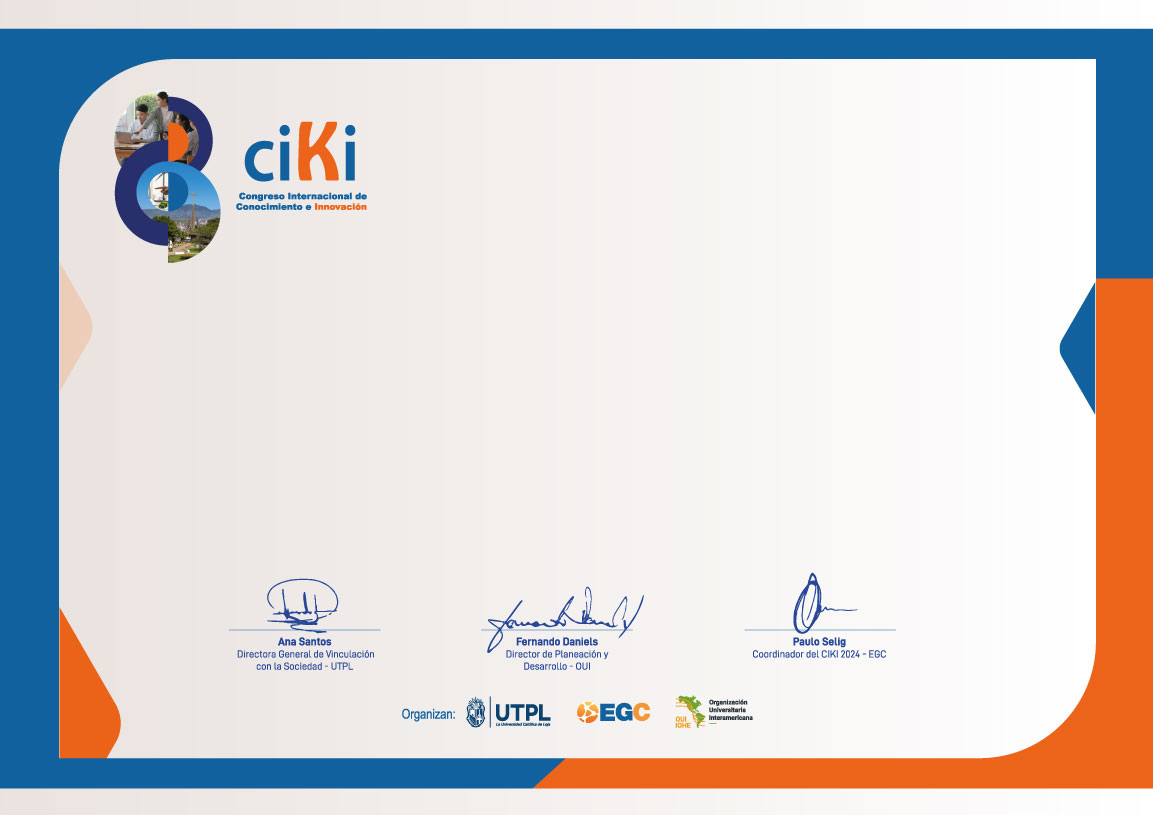
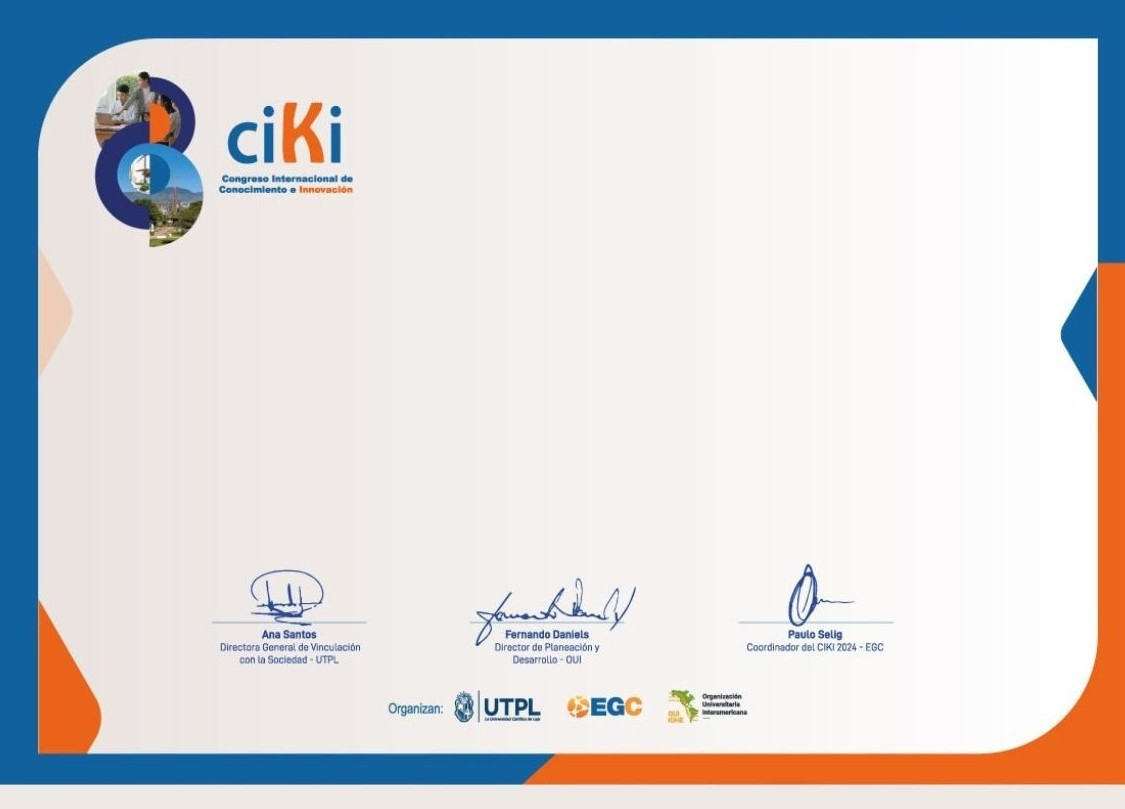
Ciki 2024

diff --git a/resources/views/templates/apresentador.blade.php b/resources/views/templates/apresentador.blade.php
@@ -1,7 +1,7 @@
 <html>
     <head>
         <style>
-            body { background-image: url({{ ENV('ASSET_URL').'/img/modelos/modelo_ciki_x_resized.jpg' }}); background-position: bottom right; background-repeat: no-repeat; }
+            body { background-image: url({{ ENV('ASSET_URL').'/img/fundos/ciki_2024.jpg' }}); background-position: bottom right; background-repeat: no-repeat; }
             .corpo { text-align: center; padding-top: 150px; min-height: 500px; }
             .corpo p { font-size: 17px; }
             .corpo h1 { padding-bottom: 12px; }
@@ -13,32 +13,32 @@
             @page {
                 margin: 10%;
                 margin-header: 3mm; 
-	            margin-footer: 3mm; 
-                background-image: url({{ ENV('ASSET_URL').'/img/modelos/modelo_ciki_x_resized.jpg' }}); background-position: bottom right; background-repeat: no-repeat;
+	            margin-footer: 0mm; 
+                background-image: url({{ ENV('ASSET_URL').'/img/fundos/ciki_2024.jpg' }}); background-position: bottom right; background-repeat: no-repeat;
 
                 header: page-header;
 		        footer: page-footer;
             }
 
             @page-footer {
-                font-size: 10px;
+                font-size: 8px;
             }
         </style>
     </head>
     <body>
         <htmlpagefooter name="page-footer">
-            <p style="font-size: 13px; text-align: center;">The authenticity of this document must be verified in the url {{ ENV('APP_URL') }}/certificados/validar/{{ $certificado->ds_hash_cer }}<p>
+            <p style="font-size: 12px; text-align: center; padding-top: 5px;">The authenticity of this document can be verified in the url https://certificados.studiokem.ufsc.br/certificados/validar/{{ $certificado->ds_hash_cer }}<p>
         </htmlpagefooter>
 
         <div class="corpo">
             <h2>Article Presentation Certificate</h2>
             <p>
-                This is to certify that the article entitled
+                This is to certify that the article
                 <strong>"{{ $certificado->metadados->where('label_metadado_cem','#titulo')->first()->valor_metadado_cem }}"</strong> 
                 authored by 
                 <strong>{{ $certificado->metadados->where('label_metadado_cem','#autores')->first()->valor_metadado_cem }}</strong> 
-                was accepted, presented and published at the 
-                X International Congress of Knowledge and Innovation - ciKi 2020 (virtual modality, November 19 and 20, 2020)
+                was accepted, presented and published in the 14th International Congress on Knowledge and Innovation (CiKi2024), 
+                held in Loja, Ecuador, from November 11 to 12, 2024.
             </p>
         </div>
     </body>

diff --git a/app/Http/Controllers/CertificadoController.php b/app/Http/Controllers/CertificadoController.php
@@ -29,7 +29,7 @@ class CertificadoController extends Controller
     public function index()
     {
         $eventos = Evento::orderBy('dt_inicio_eve')->get();
-        $certificados = Certificado::whereIn('id_modelo_certificado_moc', [31])->get();
+        $certificados = Certificado::whereIn('id_modelo_certificado_moc', [4])->get();
         //$certificados = Certificado::all();
         return view('certificados/index', compact('eventos', 'certificados'));
     }
